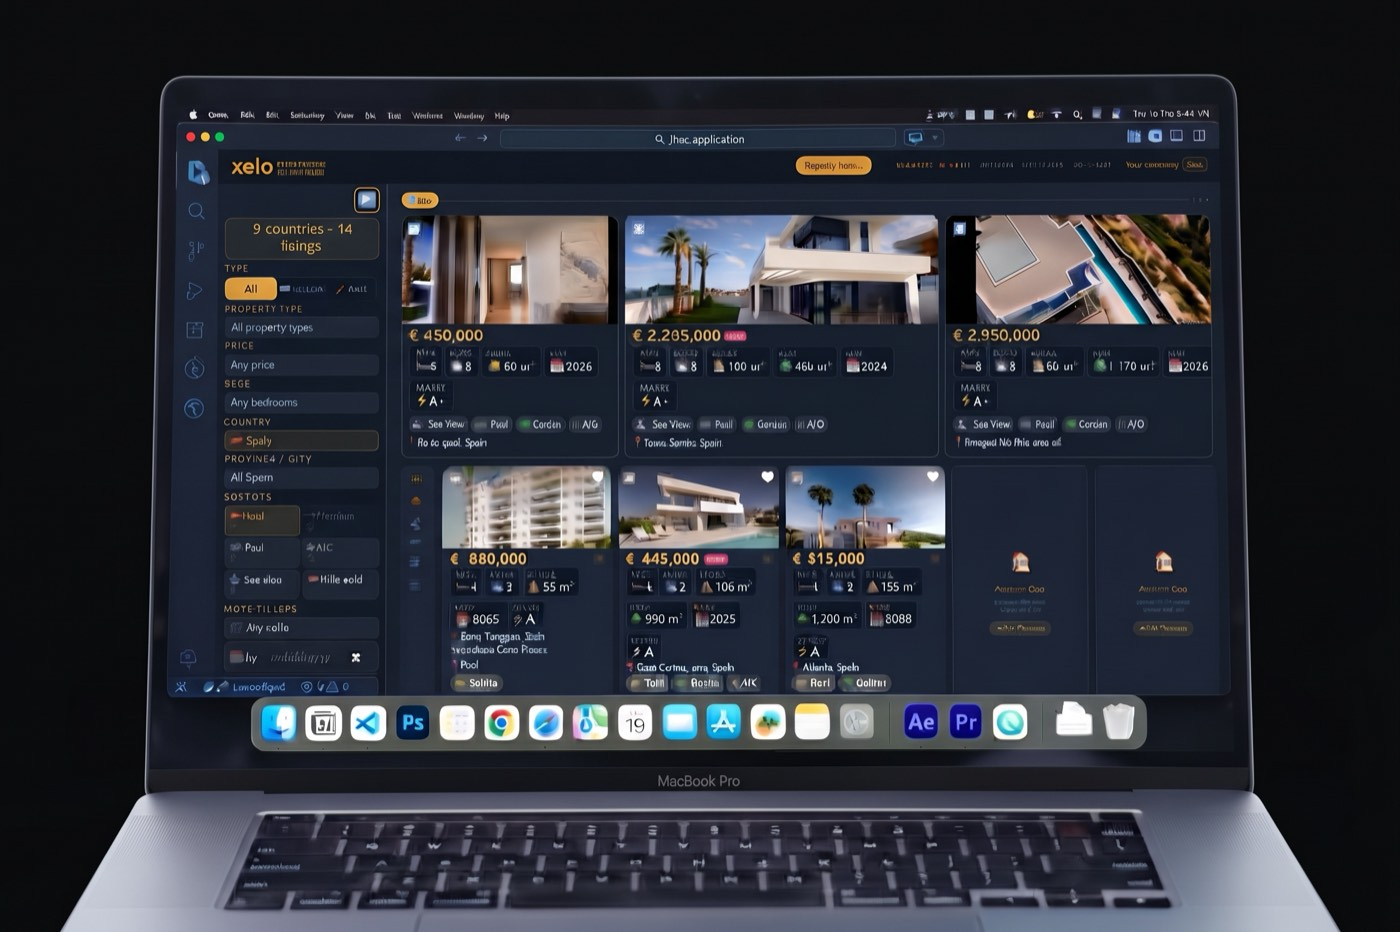
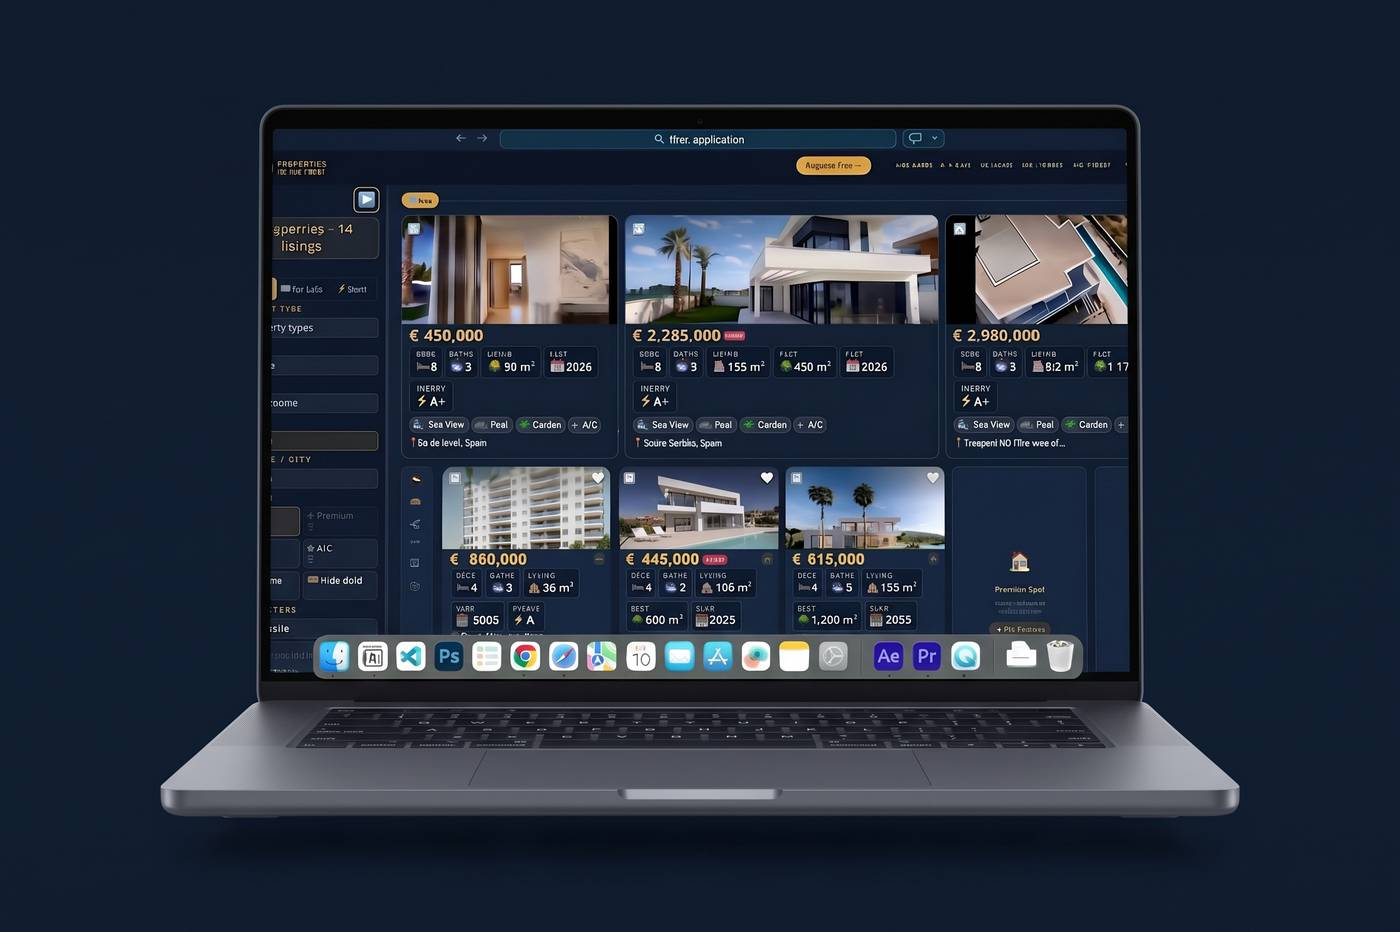
fix(broker): navy MacBook image + dashboard screenshot + nav overflow fix
- Replace macbook-frame.jpg with navy-background version (background matches
  #0C1B2E exactly, blends seamlessly) — 96KB optimised from original 1.9MB
- Re-measure overlay coordinates for new image: left:18% top:17% width:63%
  height:55%, scale:0.298 (680px) / 0.350 (800px)
- Replace phone mockup with static dashboard-screenshot.jpg (My Videos page)
  shown at ≤1380px when MacBook hides; desktop shows MacBook only
- Fix nav overflow at ~1280px Mac Mini: @media(max-width:1300px) reduces
  padding to 28px, nv gap to 8px, hides Free-portal button (.fp-btn)

diff --git a/index.html b/index.html
@@ -284,42 +284,28 @@ footer a:hover{color:var(--g)}
 /* MacBook Pro photo composite — straight-on AI image, no perspective */
 .macbook-photo-wrap{position:relative;width:680px;aspect-ratio:2528/1684;flex-shrink:0;border-radius:6px;overflow:hidden;box-shadow:0 20px 60px rgba(0,0,0,.65)}
 .macbook-photo-wrap img{position:absolute;inset:0;width:100%;height:100%;object-fit:cover;display:block}
-.macbook-photo-overlay{position:absolute;left:14%;top:24%;width:72%;height:40%;overflow:hidden;border-radius:2px}
-.macbook-photo-overlay iframe{width:1440px;height:900px;transform:scale(0.340);transform-origin:top left;border:none;display:block;pointer-events:none}
-/* iPhone mockup — scaled to match laptop image height (453px) */
-.market-preview-phone{flex-shrink:0;margin-left:-24px}
-.phone-bezel{width:254px;height:453px;background:linear-gradient(160deg,#48484a 0%,#1e1e20 45%,#2c2c2e 100%);border-radius:31px;padding:9px;position:relative;box-shadow:0 0 0 1px rgba(255,255,255,.18),0 0 0 2px rgba(0,0,0,.8),0 16px 40px rgba(0,0,0,.8),0 4px 12px rgba(0,0,0,.5),inset 0 1px 0 rgba(255,255,255,.14),inset 0 -1px 0 rgba(0,0,0,.3)}
-.phone-bezel::before{content:'';position:absolute;right:-3px;top:100px;width:3px;height:49px;background:linear-gradient(to right,#2c2c2e,#48484a);border-radius:0 2px 2px 0;box-shadow:1px 0 2px rgba(0,0,0,.5)}
-.phone-bezel::after{content:'';position:absolute;left:-3px;top:66px;width:3px;height:53px;background:linear-gradient(to left,#2c2c2e,#48484a);border-radius:2px 0 0 2px;box-shadow:-1px 0 2px rgba(0,0,0,.5)}
-.phone-screen-inner{width:100%;height:100%;border-radius:24px;overflow:hidden;background:#000;position:relative;display:flex;flex-direction:column}
-.phone-di{position:absolute;top:6px;left:50%;transform:translateX(-50%);width:66px;height:19px;background:#000;border-radius:10px;z-index:10;pointer-events:none}
-.phone-status-bar{height:28px;flex-shrink:0;background:#0d1321;display:flex;align-items:center;justify-content:space-between;padding:0 12px 0 11px;position:relative;z-index:8;border-radius:24px 24px 0 0}
-.psb-time{font-family:system-ui,-apple-system,sans-serif;font-size:10px;font-weight:600;color:rgba(255,255,255,.92);letter-spacing:.01em;line-height:1}
-.psb-icons{display:flex;align-items:center;gap:3px}
-.psb-icons svg{height:8px;width:auto}
-.phone-iframe-clip{overflow:hidden;flex:1}
-.phone-iframe-clip iframe{width:390px;height:844px;transform:scale(0.605);transform-origin:top left;border:none;display:block;pointer-events:none}
+.macbook-photo-overlay{position:absolute;left:18%;top:17%;width:63%;height:55%;overflow:hidden;border-radius:2px}
+.macbook-photo-overlay iframe{width:1440px;height:900px;transform:scale(0.298);transform-origin:top left;border:none;display:block;pointer-events:none}
+/* Dashboard screenshot — shown when MacBook is hidden (≤1380px) */
+.market-preview-screenshot{display:none}
 .market-fallback-card{background:#121a2b;border:1px solid #1c2740;border-radius:16px;padding:48px 32px;text-align:center}
 @media(min-width:1700px){
   .macbook-photo-wrap{width:800px}
-  .macbook-photo-overlay iframe{transform:scale(0.400)}
+  .macbook-photo-overlay iframe{transform:scale(0.350)}
 }
 @media(max-width:1380px){
   .market-preview-desktop{display:none}
   .market-preview-pair{justify-content:center}
-  .market-preview-phone{margin-left:0}
-  .phone-bezel{width:310px;height:553px;border-radius:37px;padding:11px}
-  .phone-bezel::before{top:122px;height:60px}
-  .phone-bezel::after{top:80px;height:65px}
-  .phone-screen-inner{border-radius:29px}
-  .phone-di{width:81px;height:23px;top:7px}
-  .phone-status-bar{height:34px;border-radius:29px 29px 0 0}
-  .psb-time{font-size:12px}
-  .psb-icons svg{height:10px}
-  .phone-iframe-clip iframe{transform:scale(0.738)}
+  .market-preview-screenshot{display:block;width:100%;max-width:700px;border-radius:12px;overflow:hidden;box-shadow:0 20px 60px rgba(0,0,0,.65);border:1px solid rgba(255,255,255,.08)}
+  .market-preview-screenshot img{width:100%;height:auto;display:block;border-radius:12px}
 }
-@media(max-width:900px){.examples-layout{grid-template-columns:1fr}.market-preview-pair{justify-content:space-around}}
-@media(max-width:639px){.market-preview-pair{display:none}}
+/* Nav: prevent overflow at tight desktop widths (~1280px Mac Mini) */
+@media(max-width:1300px){
+  nav{padding:0 28px}
+  .nv{gap:8px}
+  .fp-btn{display:none}
+}
+@media(max-width:900px){.examples-layout{grid-template-columns:1fr}.market-preview-pair{justify-content:center}}
   </style>
 </head>
 <body>
@@ -343,7 +329,7 @@ footer a:hover{color:var(--g)}
     <a href="#contact">Contact</a>
   </div>
   <div class="nc">
-    <a href="https://app.xelo.media/market" class="btn ghost" style="border-color:rgba(201,168,76,.4);color:var(--g)" title="Free portal placement — included with every plan" aria-label="Xelo Market — free portal placement included with every plan">Free portal ✦</a>
+    <a href="https://app.xelo.media/market" class="btn ghost fp-btn" style="border-color:rgba(201,168,76,.4);color:var(--g)" title="Free portal placement — included with every plan" aria-label="Xelo Market — free portal placement included with every plan">Free portal ✦</a>
     <a href="https://app.xelo.media/login" class="btn ghost">Log in</a>
     <a href="https://app.xelo.media/register" class="btn gold">Start free</a>
   </div>
@@ -442,27 +428,9 @@ footer a:hover{color:var(--g)}
               </div>
             </div>
           </div>
-          <!-- Realistic iPhone mockup -->
-          <div class="market-preview-phone">
-            <div class="phone-bezel">
-              <div class="phone-screen-inner">
-                <div class="phone-di"></div>
-                <div class="phone-status-bar">
-                  <span class="psb-time" id="psb-time"></span>
-                  <div class="psb-icons">
-                    <!-- Signal bars -->
-                    <svg width="17" height="12" viewBox="0 0 17 12" fill="none" aria-hidden="true"><rect x="0" y="8" width="3" height="4" rx=".5" fill="rgba(255,255,255,.9)"/><rect x="4.5" y="5.5" width="3" height="6.5" rx=".5" fill="rgba(255,255,255,.9)"/><rect x="9" y="3" width="3" height="9" rx=".5" fill="rgba(255,255,255,.9)"/><rect x="13.5" y="0" width="3" height="12" rx=".5" fill="rgba(255,255,255,.9)"/></svg>
-                    <!-- WiFi -->
-                    <svg width="16" height="12" viewBox="0 0 16 12" fill="none" aria-hidden="true"><circle cx="8" cy="11" r="1.4" fill="rgba(255,255,255,.9)"/><path d="M4.2 7.2A5.3 5.3 0 0 1 8 5.6a5.3 5.3 0 0 1 3.8 1.6" stroke="rgba(255,255,255,.9)" stroke-width="1.4" stroke-linecap="round" fill="none"/><path d="M1.5 4.5A8.6 8.6 0 0 1 8 2a8.6 8.6 0 0 1 6.5 2.8" stroke="rgba(255,255,255,.9)" stroke-width="1.4" stroke-linecap="round" fill="none"/></svg>
-                    <!-- Battery -->
-                    <svg width="26" height="12" viewBox="0 0 26 12" fill="none" aria-hidden="true"><rect x=".6" y="1.8" width="21" height="8.4" rx="2" stroke="rgba(255,255,255,.85)" stroke-width="1.2"/><rect x="22.2" y="4" width="3" height="4" rx="1" fill="rgba(255,255,255,.45)"/><rect x="2" y="3.1" width="16" height="5.8" rx="1.2" fill="rgba(255,255,255,.9)"/></svg>
-                  </div>
-                </div>
-                <div class="phone-iframe-clip">
-                  <iframe id="market-iframe-phone" src="https://app.xelo.media/market" loading="lazy" scrolling="no" title="Xelo Market — mobile"></iframe>
-                </div>
-              </div>
-            </div>
+          <!-- Dashboard screenshot — broker My Videos view -->
+          <div class="market-preview-screenshot">
+            <img src="dashboard-screenshot.jpg" alt="Xelo dashboard — My Videos" loading="lazy">
           </div>
         </div>
         <!-- Fallback: dark card on iframe failure or <640px -->
